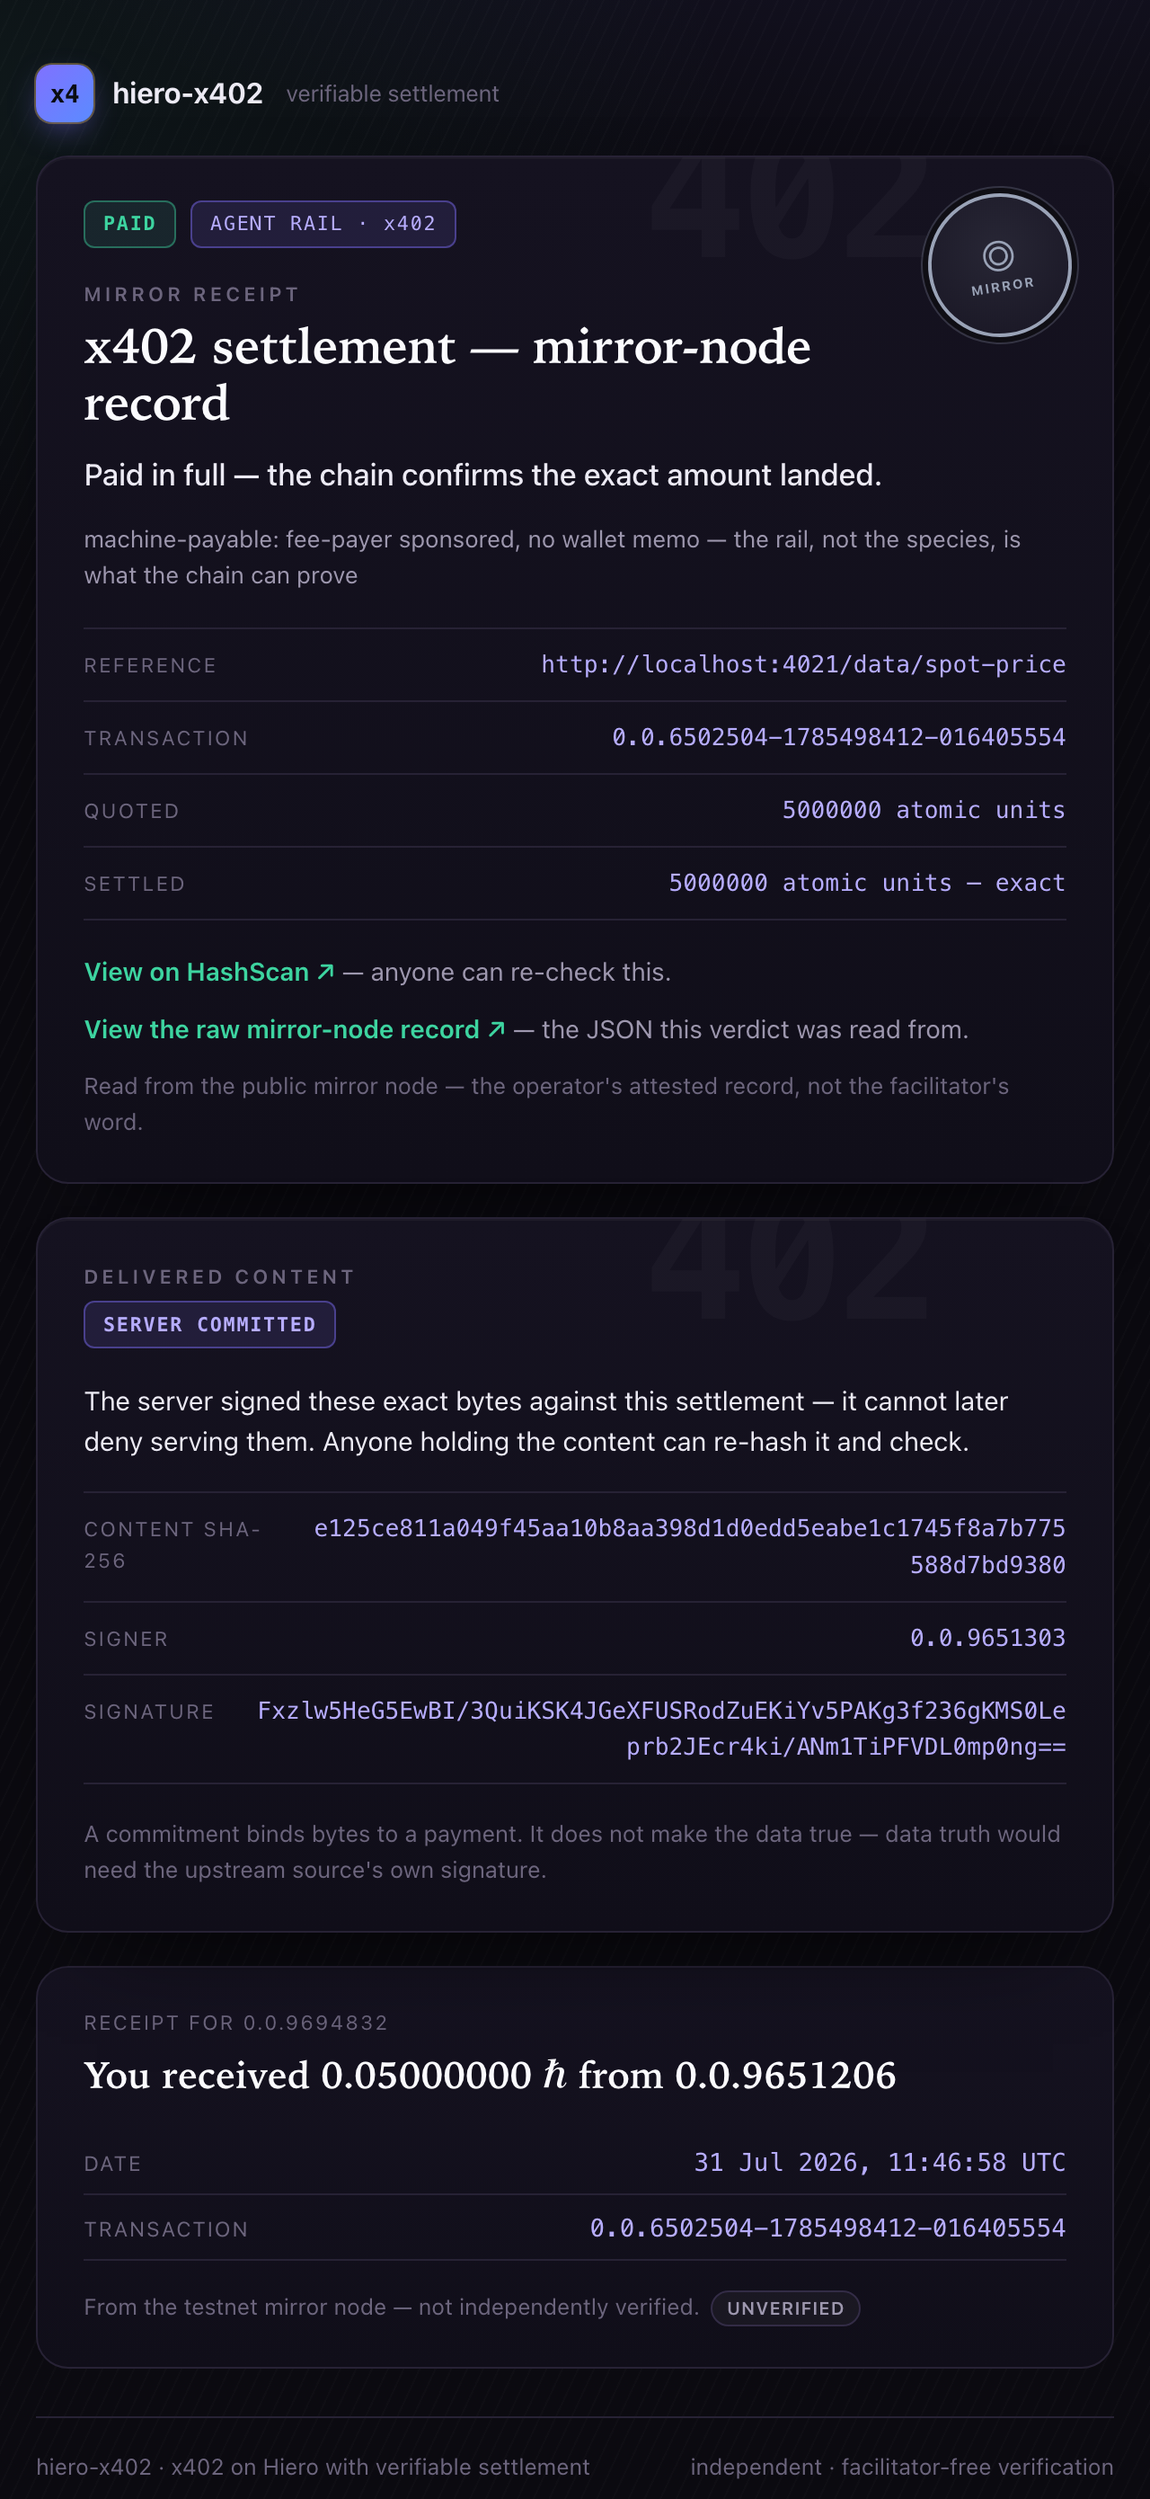
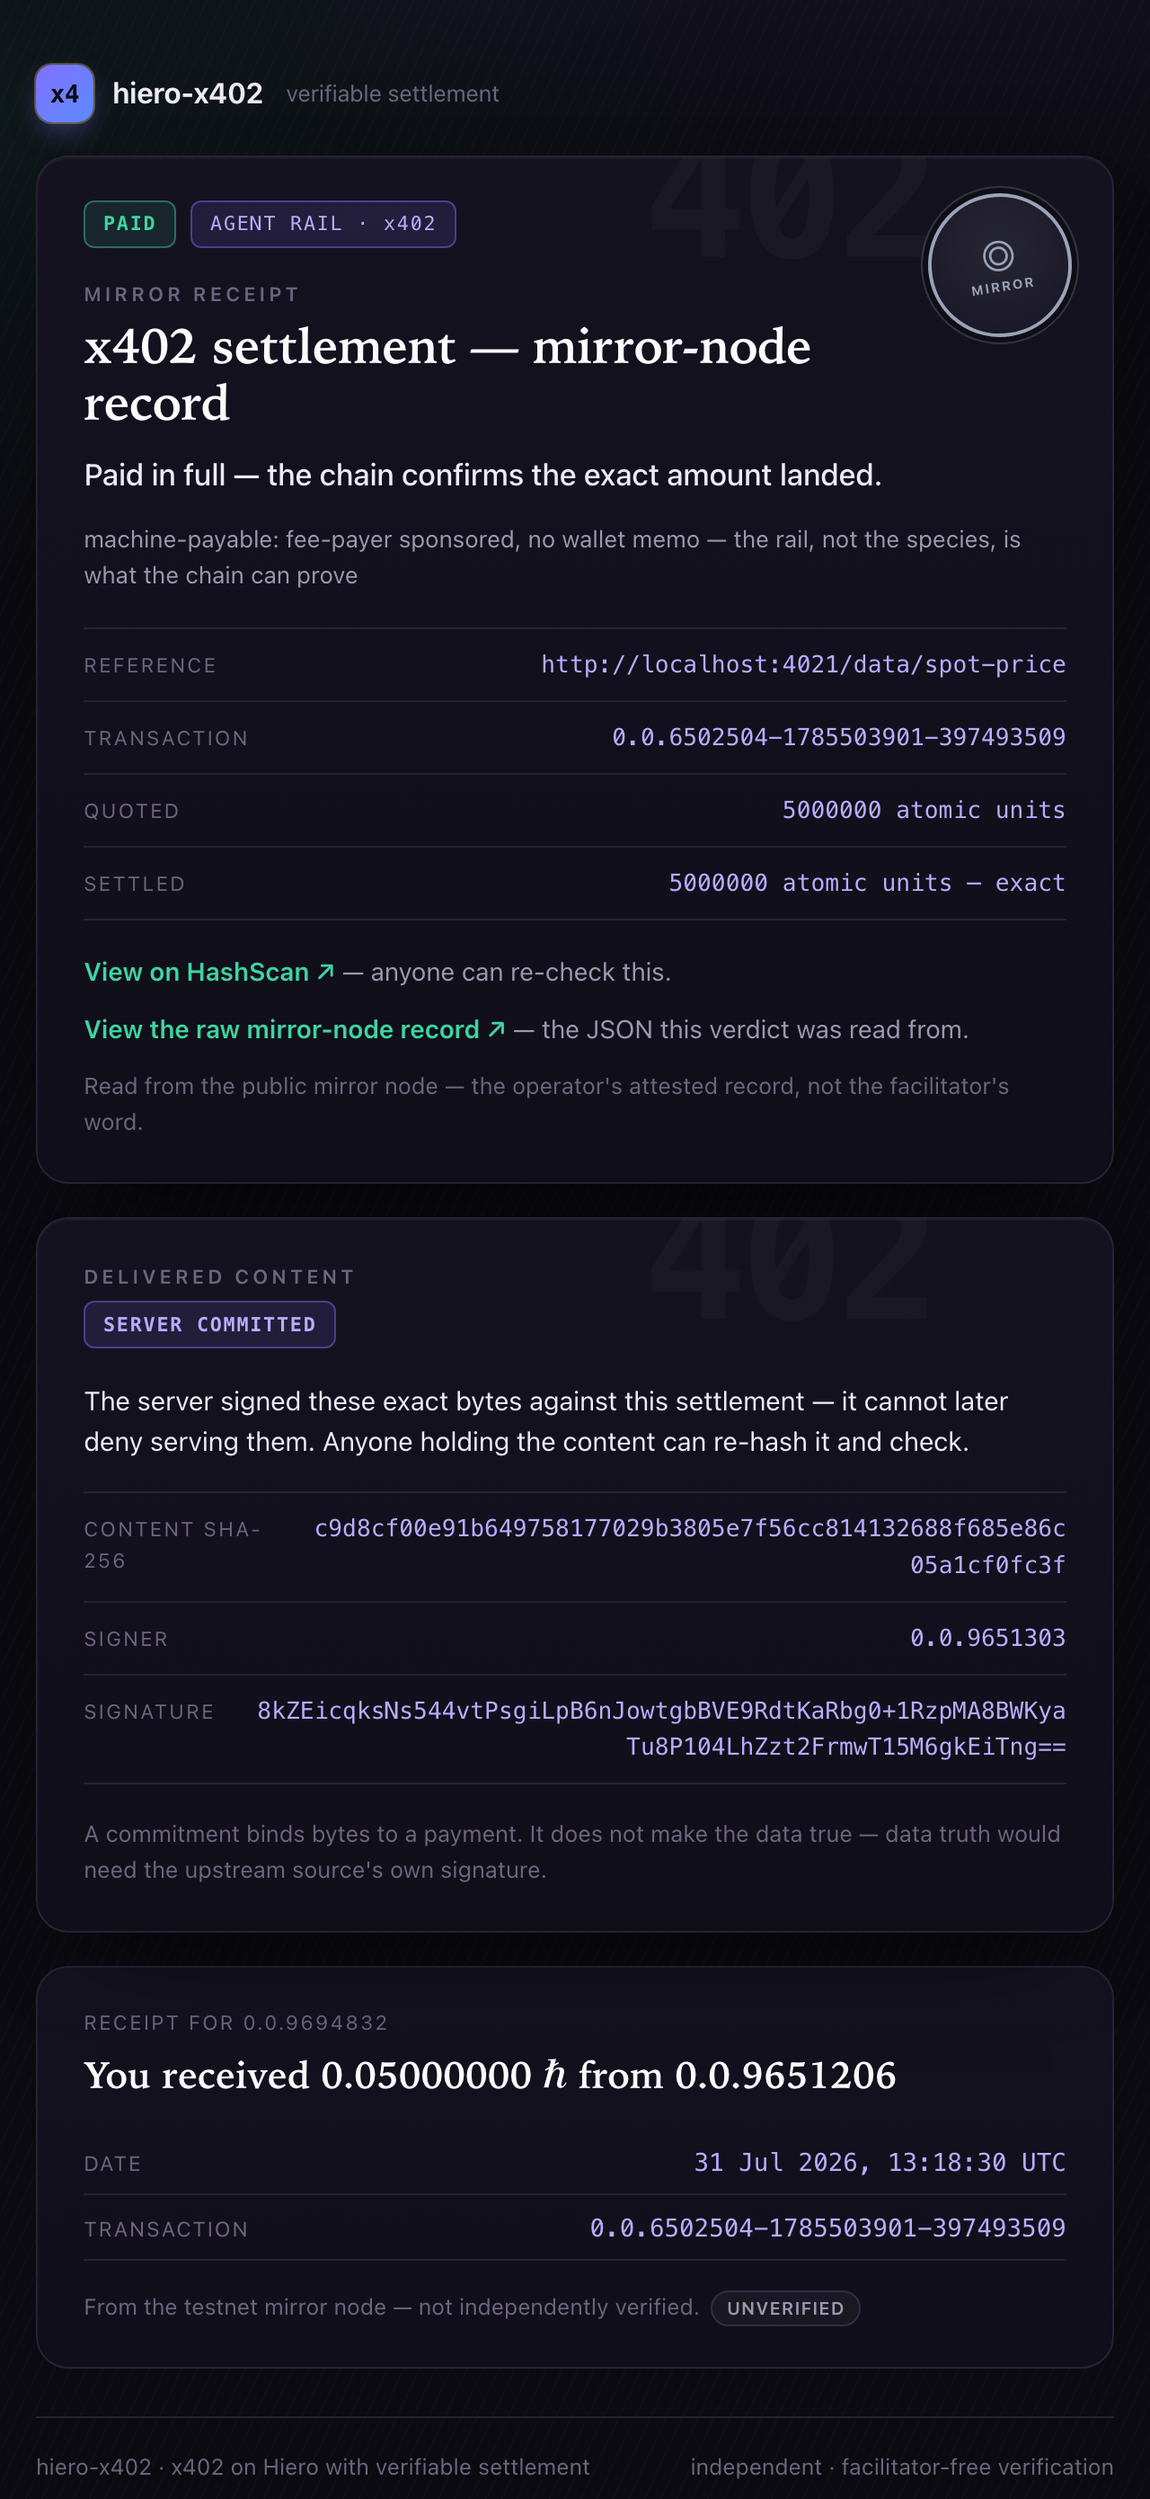
feat: add more information to receipts

diff --git a/src/receipt.ts b/src/receipt.ts
@@ -53,6 +53,35 @@ export interface ReceiptOptions {
    * invents one; the caller owns the honesty.
    */
   readonly caveat?: string;
+  /**
+   * The wallet-signed human approval for THIS payment, when one happened.
+   * `terms` is the one-time challenge the wallet signed (nonce + issue
+   * time bind it to this run); `verified` is the caller's re-verification
+   * against the approver's ON-CHAIN key — same discipline as content
+   * commitments: rendered in its own register, never under the settlement
+   * seal's authority. Absent → an autonomous run; no panel, no judgment.
+   */
+  readonly consent?: {
+    readonly approver: string;
+    readonly terms: string;
+    readonly signatureB64: string;
+    readonly verified: boolean;
+  };
+  /**
+   * The proof facts for a block-proof verdict — WHAT was checked, not just
+   * that checking happened: the source block, the anchor it chains to, and
+   * the checks that had to hold before a single field was believed. The
+   * caller owns the facts (it ran the proof); the receipt renders them in
+   * the gold register the seal already claims.
+   */
+  readonly proof?: {
+    /** e.g. "block 467 · hedera:previewnet (committed fixture)" */
+    readonly source: string;
+    /** e.g. "genesis block 0 — the chain of block hashes ends here" */
+    readonly anchor?: string;
+    /** The checks, in the order they ran. */
+    readonly checks: readonly string[];
+  };
 }
 
 /** "5000000 atomic units" — with the grammar surviving an amount of 1. */
@@ -132,6 +161,66 @@ function contentPanel(content: DeliveredContent): string {
 }
 
 /**
+ * The human-approval panel — who consented to THIS payment, re-verifiable.
+ * Two registers only: the signature holds against the approver's on-chain
+ * key, or it was claimed and does not — an unverifiable consent is loud,
+ * never quietly displayed as fact.
+ */
+function consentPanel(consent: NonNullable<ReceiptOptions["consent"]>): string {
+  const register = consent.verified
+    ? {
+        badge: "HUMAN APPROVED",
+        badgeClass: "human",
+        line: "A human&#39;s wallet signed this exact challenge — nonce and issue time bind the approval to THIS run, so a captured signature approves nothing later.",
+      }
+    : {
+        badge: "CONSENT UNVERIFIED",
+        badgeClass: "bad",
+        line: "A consent was presented but its signature does not verify against the approver&#39;s on-chain key — treat the approval as unattested.",
+      };
+  return `<section class="x402-card x402-content">
+  <p class="x402-eyebrow">Human approval</p>
+  <div class="x402-top">
+    <span class="x402-badge ${register.badgeClass}">${register.badge}</span>
+  </div>
+  <p class="x402-content-line">${register.line}</p>
+  <dl class="x402-meta">
+    <div><dt>Approver</dt><dd><code>${escapeHTML(consent.approver)}</code></dd></div>
+    <div><dt>Signed challenge</dt><dd><code>${escapeHTML(consent.terms)}</code></dd></div>
+    <div><dt>Signature</dt><dd><code>${escapeHTML(consent.signatureB64)}</code></dd></div>
+  </dl>
+  <p class="x402-method">Consent binds a human to these terms. It does not move money — the settlement above did that, and is proven separately.</p>
+</section>`;
+}
+
+/**
+ * The proof panel — the block-proof rung's working, shown. A receipt that
+ * says "cryptographically verified" without saying WHAT was checked asks
+ * for the very trust this repo exists to remove.
+ */
+function proofPanel(proof: NonNullable<ReceiptOptions["proof"]>): string {
+  const checks = proof.checks
+    .map((check) => `<div><dt>Checked</dt><dd class="x402-prose">${escapeHTML(check)}</dd></div>`)
+    .join("\n    ");
+  return `<section class="x402-card x402-content">
+  <p class="x402-eyebrow">The proof&#39;s working</p>
+  <div class="x402-top">
+    <span class="x402-badge proof-badge">BLOCK PROOF</span>
+  </div>
+  <p class="x402-content-line">Nothing below was believed until every check here held — one flipped byte anywhere in the block and this receipt would not exist.</p>
+  <dl class="x402-meta">
+    <div><dt>Source</dt><dd class="x402-prose">${escapeHTML(proof.source)}</dd></div>${
+      proof.anchor !== undefined
+        ? `\n    <div><dt>Anchor</dt><dd class="x402-prose">${escapeHTML(proof.anchor)}</dd></div>`
+        : ""
+    }
+    ${checks}
+  </dl>
+  <p class="x402-method">Cryptography, not attestation: these checks recompute the ledger&#39;s own commitments — no operator, mirror, or facilitator is trusted anywhere above.</p>
+</section>`;
+}
+
+/**
  * The verdict + receipts as one printable HTML document. Everything shown is
  * derived from the *verified* verdict — never echoed from a facilitator's
  * response — so what the reader sees is what the chain said.
@@ -199,6 +288,8 @@ export function settlementReceiptHTML(
 </header>`;
   const bodies = verdict.receipts.map((receipt) => toHTML(receipt)).join("\n");
   const content = options.content === undefined ? "" : `\n${contentPanel(options.content)}`;
+  const consent = options.consent === undefined ? "" : `\n${consentPanel(options.consent)}`;
+  const proof = options.proof === undefined ? "" : `\n${proofPanel(options.proof)}`;
   // ONE column for everything — the banner and the receipt bodies share the
   // same width and left edge, instead of two containers eyeballing centers.
   // hiero-receipts caps its card at 420px and ships a LIGHT card; the trailing
@@ -208,7 +299,7 @@ export function settlementReceiptHTML(
   return `<div class="x402-wrap">
 ${THEME}
 <div class="x402-brand"><span class="mark">x4</span>hiero-x402 <small>verifiable settlement</small></div>
-${banner}${content}
+${banner}${proof}${consent}${content}
 <div class="x402-bodies">${bodies}</div>
 <footer class="x402-foot"><span>hiero-x402 · x402 on Hiero with verifiable settlement</span><span>independent · facilitator-free verification</span></footer>
 ${RCPT_OVERRIDE}
@@ -267,6 +358,8 @@ const THEME = `<style>
   .x402-badge.commit{color:var(--brand-soft);border-color:rgba(128,113,255,.42);background:rgba(128,113,255,.12)}
   .x402-badge.bad{color:var(--danger);border-color:rgba(244,116,107,.42);background:rgba(244,116,107,.1)}
   .x402-badge.mute{color:var(--muted);border-color:var(--line-2);background:rgba(255,255,255,.04)}
+  .x402-badge.human{color:var(--warn);border-color:rgba(243,182,77,.42);background:rgba(243,182,77,.1)}
+  .x402-badge.proof-badge{color:var(--gold);border-color:rgba(230,185,104,.42);background:rgba(230,185,104,.1)}
   .x402-content-line{margin:0 0 1rem;color:var(--text);font-size:.92rem;max-width:36rem}
   .x402-chip{font-size:.68rem;letter-spacing:.08em;padding:.24rem .62rem;border-radius:6px;color:var(--brand-soft);
     border:1px solid rgba(128,113,255,.42);background:rgba(128,113,255,.12);font-family:var(--mono)}
@@ -282,6 +375,8 @@ const THEME = `<style>
   .x402-meta dt{color:var(--faint);font-size:.7rem;text-transform:uppercase;letter-spacing:.1em}
   .x402-meta dd{margin:0;font-family:var(--mono);font-size:.82rem;color:var(--brand-soft);
     word-break:break-all;text-align:right}
+  /* prose values (proof checks, sources) wrap at words — break-all is for hashes */
+  .x402-meta dd.x402-prose{word-break:normal;overflow-wrap:break-word}
   .x402-proof{margin:0 0 .65rem;font-size:.88rem;color:var(--muted)}
   .x402-proof a{color:var(--proof);text-decoration:none;font-weight:600}
   .x402-proof a:hover{text-decoration:underline}

diff --git a/test/receipt.test.ts b/test/receipt.test.ts
@@ -122,6 +122,62 @@ describe("settlementReceiptHTML", () => {
     expect(html).not.toContain("Delivered content");
   });
 
+  it("shows WHO approved THIS payment when a wallet signed the challenge — re-verifiable", async () => {
+    const verdict = await verdictFor(5_000_000);
+    // No consent → no panel: an autonomous run is the thesis, not a warning.
+    expect(settlementReceiptHTML(verdict)).not.toContain("Human approval");
+    const approved = settlementReceiptHTML(verdict, {
+      consent: {
+        approver: "0.0.4242",
+        terms: "hiero-x402 approval · pay 0.05 ℏ · nonce abc123 · issued 2026-07-31T12:00:00Z",
+        signatureB64: "c2ln",
+        verified: true,
+      },
+    });
+    expect(approved).toContain("Human approval");
+    expect(approved).toContain("HUMAN APPROVED");
+    expect(approved).toContain("0.0.4242");
+    expect(approved).toContain("nonce abc123"); // the run-binding, visible
+    expect(approved).toContain("does not move money"); // scope honesty
+    // A claimed consent that does not verify is loud, never displayed as fact.
+    const broken = settlementReceiptHTML(verdict, {
+      consent: {
+        approver: "0.0.4242",
+        terms: "<script>alert(1)</script>",
+        signatureB64: "c2ln",
+        verified: false,
+      },
+    });
+    expect(broken).toContain("CONSENT UNVERIFIED");
+    expect(broken).toContain("unattested");
+    expect(broken).not.toContain("<script>alert(1)</script>"); // escaped
+  });
+
+  it("shows the proof's working when the caller ran one — and nothing when it didn't", async () => {
+    const verdict = await verdictFor(5_000_000);
+    // The mirror path ran no block proof — claiming one would be the lie
+    // this repo exists to end.
+    expect(settlementReceiptHTML(verdict)).not.toContain("proof&#39;s working");
+    const html = settlementReceiptHTML(verdict, {
+      proof: {
+        source: "block 467 · hedera:previewnet (committed fixture, real block)",
+        anchor: "genesis block 0 — the chain of block hashes ends here",
+        checks: ["the block's merkle root, recomputed <from> its own items"],
+      },
+    });
+    expect(html).toContain("The proof&#39;s working");
+    expect(html).toContain("block 467");
+    expect(html).toContain("genesis block 0");
+    expect(html).toContain("one flipped byte"); // falsifiability, stated
+    expect(html).not.toContain("<from>"); // checks are escaped
+    // Anchor is optional — a future source may anchor differently.
+    const anchorless = settlementReceiptHTML(verdict, {
+      proof: { source: "block 9", checks: ["a check"] },
+    });
+    expect(anchorless).toContain("The proof&#39;s working");
+    expect(anchorless).not.toContain("Anchor");
+  });
+
   it("renders a caveat only when the caller owns up to one, escaped", async () => {
     const verdict = await verdictFor(5_000_000);
     expect(settlementReceiptHTML(verdict)).not.toContain('<p class="x402-caveat">');

diff --git a/demo/agent.ts b/demo/agent.ts
@@ -41,7 +41,13 @@ import {
 import type { DeliveredContent } from "../src/index.js";
 import { attest } from "./attest.js";
 import { hushBenignSdkWarnings } from "./quiet.js";
-import { demoNetwork, requireEnv, resolvePrivateKey, verifyAccountSignature } from "./shared.js";
+import {
+  demoNetwork,
+  requireEnv,
+  resolvePrivateKey,
+  verifyAccountSignature,
+  verifyWalletSignature,
+} from "./shared.js";
 
 hushBenignSdkWarnings(); // drop the SDK's expected raw-HEX-key advisory (see quiet.ts)
 
@@ -277,9 +283,37 @@ if (commitSha !== null && commitSigner !== null && commitSignature !== null) {
   );
 }
 
+// The human approval, re-verified for the receipt: the hub checked the
+// wallet signature before relaying, but this agent grades its own homework
+// against the approver's ON-CHAIN key — the receipt's consent panel shows
+// the agent's verdict, not the hub's word.
+let consent:
+  { approver: string; terms: string; signatureB64: string; verified: boolean } | undefined;
+if (humanConsent !== undefined) {
+  const consentVerified = await verifyWalletSignature(
+    humanConsent.accountId,
+    humanConsent.terms,
+    humanConsent.signature,
+  );
+  consent = {
+    approver: humanConsent.accountId,
+    terms: humanConsent.terms,
+    signatureB64: humanConsent.signature,
+    verified: consentVerified,
+  };
+  console.log(
+    consentVerified
+      ? `[agent]     consent ✓ re-verified against ${humanConsent.accountId}'s on-chain key — on the receipt`
+      : `[agent]     consent signature did NOT re-verify — the receipt says so`,
+  );
+}
+
 // The path is the operator's own env choice, not request-derived input.
 
-writeFileSync(RECEIPT_PATH, settlementReceiptHTML(verdict, { content }));
+writeFileSync(
+  RECEIPT_PATH,
+  settlementReceiptHTML(verdict, { content, ...(consent !== undefined ? { consent } : {}) }),
+);
 console.log(`[agent] 7 · receipt written to ${RECEIPT_PATH}`);
 
 // 8 · Optional HCS attestation — the verdict onto an append-only public log.

diff --git a/demo/hub.ts b/demo/hub.ts
@@ -501,12 +501,38 @@ export function hubHTML(view: HubView): string {
     for (var i = 0; i < bytes.length; i++) bin += String.fromCharCode(bytes[i]);
     return btoa(bin);
   }
+  // Wallet libraries load from a CDN — a single source is a demo-day
+  // single point of failure, so try two, cache the winner, and prefetch
+  // in the background the moment the page knows wallet mode is possible.
+  function importFirst(urls) {
+    return urls.reduce(function (p, u) { return p.catch(function () { return import(u); }); }, Promise.reject());
+  }
+  var sdkModule = null;
+  var hcModule = null;
+  async function walletModules() {
+    if (!sdkModule) sdkModule = await importFirst([
+      "https://esm.sh/@hashgraph/sdk@2?bundle",
+      "https://cdn.jsdelivr.net/npm/@hashgraph/sdk@2/+esm",
+    ]);
+    if (!hcModule) hcModule = await importFirst([
+      "https://esm.sh/hashconnect@3?bundle",
+      "https://cdn.jsdelivr.net/npm/hashconnect@3/+esm",
+    ]);
+    return { sdk: sdkModule, hcmod: hcModule };
+  }
+  if (WALLET.projectId) setTimeout(function () { walletModules().catch(function () { /* retried on click */ }); }, 500);
   async function walletApprove() {
     try {
       if (!pausedTerms) throw new Error("no paused terms captured");
       statusText.textContent = "Waiting for the wallet signature…";
-      var sdk = await import("https://esm.sh/@hashgraph/sdk@2?bundle");
-      var hcmod = await import("https://esm.sh/hashconnect@3?bundle");
+      var mods;
+      try {
+        mods = await walletModules();
+      } catch (loadErr) {
+        throw new Error("could not load the wallet libraries (CDN unreachable) — check the connection and click again");
+      }
+      var sdk = mods.sdk;
+      var hcmod = mods.hcmod;
       if (!window.__hc) {
         var hc = new hcmod.HashConnect(
           sdk.LedgerId.TESTNET,

diff --git a/demo/shared.ts b/demo/shared.ts
@@ -154,6 +154,30 @@ export async function verifyAccountSignature(
   return verifySignatureWithKey(keyText, Buffer.from(message, "utf8"), signatureB64);
 }
 
+/**
+ * Like verifyAccountSignature, but for WALLET-made signatures: HIP-820
+ * wallets prefix the message ("\x19Hedera Signed Message:\n<len>") and
+ * implementations disagree on whether <len> counts bytes or JS string
+ * units — accept raw plus both prefix conventions.
+ */
+export async function verifyWalletSignature(
+  accountId: string,
+  message: string,
+  signatureB64: string,
+): Promise<boolean> {
+  const keyText = await fetchAccountPublicKey(accountId);
+  if (keyText === undefined) return false;
+  const direct = Buffer.from(message, "utf8");
+  const prefixed = (length: number): Buffer =>
+    Buffer.concat([Buffer.from(`\x19Hedera Signed Message:\n${String(length)}`, "utf8"), direct]);
+  return (
+    verifySignatureWithKey(keyText, direct, signatureB64) ||
+    verifySignatureWithKey(keyText, prefixed(direct.length), signatureB64) ||
+    (message.length !== direct.length &&
+      verifySignatureWithKey(keyText, prefixed(message.length), signatureB64))
+  );
+}
+
 /** The account's single on-chain public key (raw hex) from the mirror, or undefined. */
 export async function fetchAccountPublicKey(accountId: string): Promise<string | undefined> {
   try {

diff --git a/demo/provenance.ts b/demo/provenance.ts
@@ -75,6 +75,16 @@ export function runProvenance(): ProvenanceResult {
         "Beta demonstration: this proof is verified from a committed PREVIEWNET block " +
         "fixture (block 467 — its real consensus date), because HIP-1056 block streams " +
         "have not reached testnet yet. The pipeline is live; the source is the fixture.",
+      // The proof's working — WHAT held before a single field was believed.
+      proof: {
+        source: "block 467 · hedera:previewnet (committed fixture, real block)",
+        anchor: "genesis block 0 — the chain of block hashes ends here",
+        checks: [
+          "the block's merkle root, recomputed from its own items — not read from a header",
+          "the in-band block proof's threshold signature, verified against the ledger id",
+          "the settlement transaction located INSIDE the proven block, judged against the terms",
+        ],
+      },
     }),
   );
   lines.push("[provenance] receipt written to verified-receipt.html");
